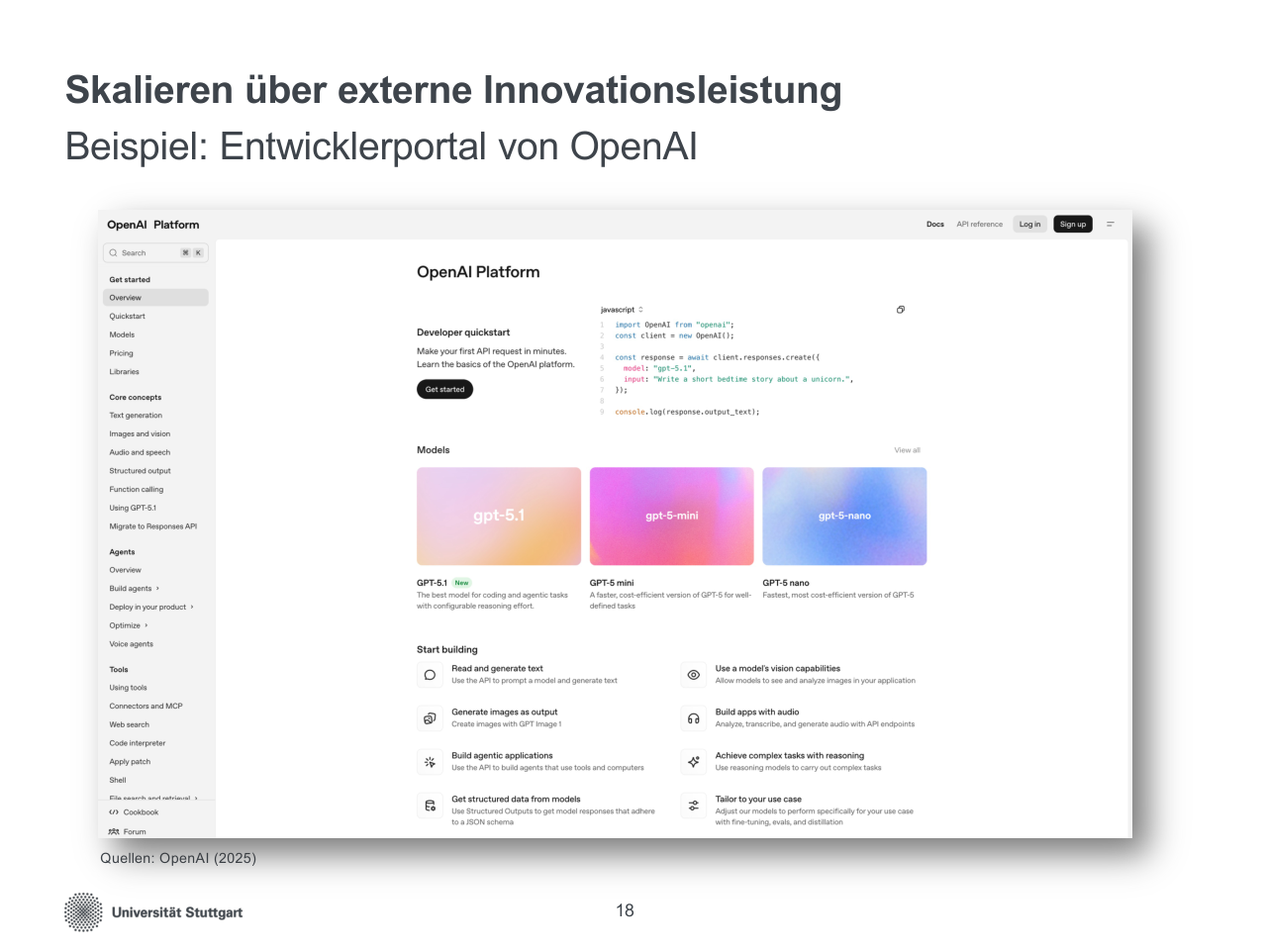
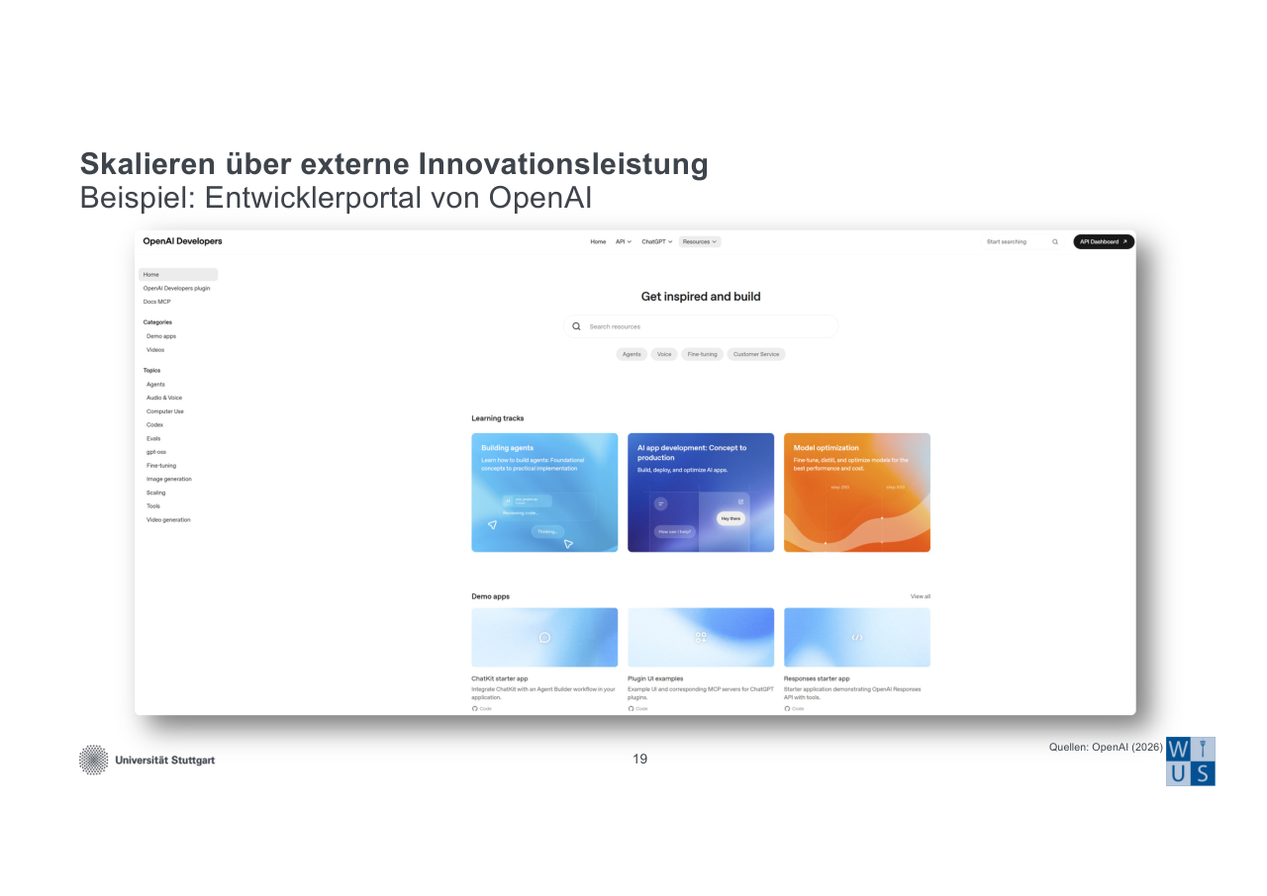
feat(mitun): refresh L06 Skalierung to the 2026/27 deck
Re-render slide images from the new deck, replace the PwC 2019 motivation slide with Bitkom 2025 and the EU Double Valley of Death, drop the Mercedes and Alexa portals, add Spotify Technology.

diff --git a/content/notes/lectures/mitun/06-skalierung.md b/content/notes/lectures/mitun/06-skalierung.md
@@ -13,21 +13,18 @@ date: 2026-10-31
 
 [[/notes/lectures/mitun/index|Zurück zum MITUN-Index]] | [[/notes/lectures/mitun/05-business-plan-und-funding|Zurück: (y-05) Business Plan und Funding]] | [[/notes/lectures/mitun/07-vermarktung|Weiter: (y-07) Vermarktung]]
 
-> [!note] Foliengrundlage
-> Diese Notiz basiert auf dem Foliensatz aus dem Wintersemester 2025/26. Sobald die Folien für 2026/27 vorliegen, wird sie daran angepasst.
-
 ## Mentales Modell
 
-- Wachstum heißt, dass ein Unternehmen größer wird. Skalierung heißt, dass es dabei Skaleneffekte nutzt, sodass der Umsatz schneller steigt als die Kosten. Software ist dafür gut geeignet, aber die Praxis zeigt, dass gerade Vertrieb, Produktentwicklung und Wachstum Startups Probleme machen.
+- Wachstum heißt, dass ein Unternehmen größer wird. Skalierung heißt, dass es dabei Skaleneffekte nutzt, sodass der Umsatz schneller steigt als die Kosten. Software ist dafür gut geeignet. In der Praxis nennen Startups trotzdem Vertrieb, Finanzierung sowie Skalierung und Wachstum als ihre größten Probleme (Bitkom 2025).
 - Fitzgerald u. a. (2017) unterscheiden drei Dimensionen der Skalierung: Produkt, Prozess und Organisation. Qualität, Kosten, Zeit und Softwarefähigkeiten wirken von außen.
 - Beim Produkt helfen eine lose gekoppelte Architektur (Microservices, wenn sie passen) und externe Innovationsleistung über Plattformen mit Boundary Resources wie APIs, SDKs und Entwicklerportalen.
-- Beim Prozess misst man Software Delivery Performance mit den vier DORA-Metriken. DevOps, Continuous Integration und Delivery und Golden Paths verbessern sie. Mehr Entwickler bringen nur dann mehr Leistung, wenn Architektur und Prozesse mitwachsen.
+- Beim Prozess misst man Software Delivery Performance mit den vier DORA-Metriken. DevOps, Continuous Integration und Delivery und Golden Paths verbessern sie. Spotify hat aus seinen Golden Paths sogar ein eigenes Produkt gemacht. Mehr Entwickler bringen nur dann mehr Leistung, wenn Architektur und Prozesse mitwachsen.
 - Bei der Organisation stoßen agile Teams an Grenzen (Brooks's Law, Conway's Law, Zwei-Pizza-Regel). Skalierte Rahmenwerke wie das Spotify-Modell, LeSS und SAFe ordnen viele Teams, und eine gestufte Support-Organisation fängt wachsende Kundenzahlen auf.
 - Tools für Planung, Code, Build, Test, Deployment und Betrieb unterstützen, ersetzen aber keine Prinzipien: "A fool with a tool is still a fool".
 
 ## 1. Inhalt und Lernziele
 
-![[pictures/mitun/06/Lecture06_Pg003_Inhalt_Und_Lernziele.png]]
+![[pictures/mitun/06/Lecture06_Pg005_Inhalt_Und_Lernziele.png]]
 
 <p class="image-caption">Inhalt der Vorlesung.</p>
 
@@ -41,21 +38,25 @@ Das Kapitel hat drei Teile: Allgemeines, die Dimensionen Produkt, Prozess und Or
 
 ### Motivation
 
-![[pictures/mitun/06/Lecture06_Pg006_Motivation.png]]
+![[pictures/mitun/06/Lecture06_Pg007_Motivation.png]]
 
 <p class="image-caption">Wachstumsphase und nachhaltige Skaleneffekte aus Kapitel 1.</p>
 
 Aus [[/notes/lectures/mitun/01-grundlagen|Kapitel 1]] ist die Wachstumsphase bekannt: Der Break-even ist erreicht, Produktion und Vertrieb werden ausgebaut, neue Märkte erschlossen, der Kapitalbedarf steigt. Mögliche Problembereiche sind Kundengewinnung, fehlendes Kapital, aktiver werdende Wettbewerber, die Organisation und die Qualität. Software hat dabei nachhaltige Skaleneffekte: Die First-Copy-Costs verteilen sich auf immer mehr Kopien (Degressionseffekt), und ab einer kritischen Masse steigen die Erlöse überproportional (Skalierungseffekt).
 
-![[pictures/mitun/06/Lecture06_Pg007_Motivation.png]]
+![[pictures/mitun/06/Lecture06_Pg008_Motivation.png]]
 
-<p class="image-caption">Herausforderungen von Startups (PwC 2019) und Stimmen aus der Praxis.</p>
+<p class="image-caption">Herausforderungen von Startups (Bitkom 2025), das "Double Valley of Death" (Europäische Kommission 2025) und Elon Musk zur Serienproduktion (Twitter 2020).</p>
 
-Nach dem Deutschen Startup Monitor 2019 (PwC 2019) sind Vertrieb und Kundengewinnung (55,3%), Produktentwicklung (43,9%), Kapitalbeschaffung (37,9%) und Wachstum (36,3%) die größten aktuellen Herausforderungen der Startups. Elon Musk beschreibt dasselbe für Hardware: Prototypen seien einfach, die Serienproduktion sei 1000% bis 10.000% schwerer. Eine Schlagzeile fragt, ob GPT-5 die Grenzen des Wachstums zeigt.
+Bitkom (2025, S. 9) hat Startups nach ihren größten geschäftlichen Herausforderungen gefragt. Vorn liegen Vertrieb und Kundengewinnung (61 %), Finanzierung und Kapitalbeschaffung (52 %) sowie Skalierung und Wachstum (39 %). Fehlende Nachfrage (13 %) und Wettbewerbsdruck (11 %) spielen eine kleinere Rolle.
+
+Die Europäische Kommission (2025) beschreibt das "Startup Double Valley of Death". Auf dem Weg von Forschung über Prototyp, Produktentwicklung und Kommerzialisierung zur Marktreife gibt es zwei Finanzierungslücken: die Pre-Commercialization Gap zwischen Prototyp und Produktentwicklung und die Scaling Gap in der Kommerzialisierung. In der ersten springen Inkubatoren, Business Angels und Venture Capital ein, in der zweiten fehlt Geld, bis Banken, Kapitalmärkte und öffentliche wie private Beschaffung übernehmen. Das technologische Risiko sinkt dabei von links nach rechts.
+
+Elon Musk beschreibt dasselbe für Hardware: Prototypen seien einfach, die Serienproduktion sei 1000 % bis 10.000 % schwerer. "The machine that makes the machine is vastly harder than the machine itself."
 
 ### Wachstum, Skalierbarkeit und Skalierung
 
-![[pictures/mitun/06/Lecture06_Pg008_Wachstum_Skalierbarkeit_Und_Skalierung.png]]
+![[pictures/mitun/06/Lecture06_Pg009_Wachstum_Skalierbarkeit_Und_Skalierung.png]]
 
 <p class="image-caption">Definitionen von Wachstum, Skalierbarkeit und Skalierung.</p>
 
@@ -68,7 +69,7 @@ Nach dem Deutschen Startup Monitor 2019 (PwC 2019) sind Vertrieb und Kundengewin
 
 ### Determinanten der Skalierung von Geschäftsmodellen
 
-![[pictures/mitun/06/Lecture06_Pg009_Determinanten_Der_Skalierung_Von_Gesch_Ftsmodellen.png]]
+![[pictures/mitun/06/Lecture06_Pg010_Determinanten_Der_Skalierung_Von_Gesch_Ftsmodellen.png]]
 
 <p class="image-caption">Explorative model of business model scalability (nach Stampfl u. a. 2013).</p>
 
@@ -86,7 +87,7 @@ Ein skalierbares Geschäftsmodell führt zu Unternehmenswachstum über zusätzli
 
 ## 3. Dimensionen der Skalierung
 
-![[pictures/mitun/06/Lecture06_Pg011_Dimensionen_Der_Skalierung.png]]
+![[pictures/mitun/06/Lecture06_Pg012_Dimensionen_Der_Skalierung.png]]
 
 <p class="image-caption">Produkt, Prozess und Organisation als Dimensionen der Skalierung (Fitzgerald u. a. 2017).</p>
 
@@ -96,13 +97,13 @@ Fitzgerald u. a. (2017) stellen Produkt, Organisation und Prozess als drei Teile
 
 ### Microservice-Architekturen
 
-![[pictures/mitun/06/Lecture06_Pg013_Microservice_Architekturen.png]]
+![[pictures/mitun/06/Lecture06_Pg014_Microservice_Architekturen.png]]
 
 <p class="image-caption">Monolith und Microservices (Microservices.io 2020, Kwiecien 2019).</p>
 
 Eine Microservice-Architektur strukturiert eine Anwendung als Sammlung von Services, die lose gekoppelt, unabhängig deploybar, um Geschäftsfähigkeiten herum organisiert, im Besitz eines kleinen Teams und gut wart- und testbar sind. Sie erlaubt schnelle, häufige und zuverlässige Auslieferung großer, komplexer Anwendungen und die schrittweise Weiterentwicklung des Technologie-Stacks. Im Monolithen dagegen laufen Oberfläche, Geschäftslogik und Datenbank als eine Instanz. Die Service-Graphen von Amazon und Netflix zeigen, wie komplex solche Landschaften werden. Die Folie warnt vor Antipatterns.
 
-![[pictures/mitun/06/Lecture06_Pg014_Microservice_Architekturen.png]]
+![[pictures/mitun/06/Lecture06_Pg015_Microservice_Architekturen.png]]
 
 <p class="image-caption">Prime Video wechselt von Microservices zum Monolithen (Amazon 2023).</p>
 
@@ -110,7 +111,7 @@ Das Team von Prime Video baute 2023 seinen Dienst zur Überwachung der Audio- un
 
 ### Skalieren über externe Innovationsleistung
 
-![[pictures/mitun/06/Lecture06_Pg015_Skalieren_Ber_Externe_Innovationsleistung.png]]
+![[pictures/mitun/06/Lecture06_Pg016_Skalieren_Ber_Externe_Innovationsleistung.png]]
 
 <p class="image-caption">Verschiebung der treibenden Innovationsquellen (nach Hoch und Freking 2009).</p>
 
@@ -118,7 +119,7 @@ Mit steigenden kumulierten Investitionen in Innovation verschieben sich die trei
 
 ### Boundary Resources
 
-![[pictures/mitun/06/Lecture06_Pg016_Boundary_Resources.png]]
+![[pictures/mitun/06/Lecture06_Pg017_Boundary_Resources.png]]
 
 <p class="image-caption">Boundary Resources als Skalierungsinstrument (Ghazawneh und Henfridsson 2013, Mautsch 2015).</p>
 
@@ -126,19 +127,15 @@ Der Plattformanbieter entwickelt und stellt Boundary Resources bereit, Komplemen
 
 ### Entwicklerportale und öffentliche Roadmaps
 
-![[pictures/mitun/06/Lecture06_Pg017_Entwicklerportale_Und_Ffentliche_Roadmaps.png]]
-
-<p class="image-caption">Entwicklerportale von Mercedes-Benz und Amazon Alexa.</p>
-
 ![[pictures/mitun/06/Lecture06_Pg018_Entwicklerportale_Und_Ffentliche_Roadmaps.png]]
 
-<p class="image-caption">Entwicklerportal von OpenAI (2025).</p>
+<p class="image-caption">Entwicklerportal von OpenAI (2026).</p>
 
 ![[pictures/mitun/06/Lecture06_Pg019_Entwicklerportale_Und_Ffentliche_Roadmaps.png]]
 
-<p class="image-caption">Öffentliche Roadmap von GitHub (2023).</p>
+<p class="image-caption">Öffentliche Roadmap von GitHub (2026).</p>
 
-Beispiele für Boundary Resources: Das Mercedes-Benz-Entwicklerportal bietet APIs etwa zum Fahrzeugstatus mit Sandbox, "Bring your own car" und Business-Zugang. Das Alexa-Portal führt mit Quick-Start-Tutorials, Dokumentation und Code-Beispielen zum ersten Skill. Die OpenAI-Plattform hat einen Developer Quickstart, Modellübersichten und Anleitungen für Text, Bilder, Audio und Agenten. GitHub veröffentlicht seine Roadmap nach Quartalen gegliedert als öffentliches Board.
+Zwei Beispiele für Boundary Resources: Das Entwicklerportal von OpenAI bietet Learning Tracks (Building agents, AI app development vom Konzept bis zur Produktion, Model optimization) und Demo-Apps. GitHub veröffentlicht seine Roadmap nach Quartalen gegliedert als öffentliches Board, von Q1 2025 bis "Future".
 
 ## 5. Prozess
 
@@ -228,11 +225,28 @@ Das DevOps Evolution Model von SAFe zeigt vier Reifestufen. In Modell 1 folgen a
 
 Golden Paths sind ausgetretene Pfade, die etwa Prozesse, Tools oder Technologien für bestimmte Anwendungsfälle bereitstellen, idealerweise als Self-Service. Spotify nutzt sie, um die Fragmentierung seines Software-Ökosystems zu verringern (Spotify 2020). Das STACKIT Maturity Model (2024) beschreibt Reifestufen mit Kriterien je Stufe. Solche Produkt- und Prozessstandards machen Skalierung wiederholbar.
 
+### Vom internen Werkzeug zum Produkt: Spotify Technology
+
+![[pictures/mitun/06/Lecture06_Pg032_Vom_Internen_Werkzeug_Zum_Produkt.png]]
+
+<p class="image-caption">Wie aus Spotifys internem Entwicklerportal Backstage eine eigene Produktmarke wurde (Spotify Technology 2026; Spotify 2025; Music Business Worldwide 2026).</p>
+
+Spotify hat seine Golden Paths in vier Schritten vom internen Werkzeug zum Produkt gemacht:
+
+| Phase                 | Was passiert                                                                                                                                                          |
+| :-------------------- | :-------------------------------------------------------------------------------------------------------------------------------------------------------------------- |
+| intern                | Backstage bündelt die Golden Paths als internes Entwicklerportal, nach eigener Aussage heute für etwa 700 R&D-Squads                                                  |
+| 03/2020: Open Source  | Backstage wird frei verfügbar und an die CNCF übergeben, über 3.000 Unternehmen nutzen es (Stand 2025)                                                                |
+| ab 2023: kommerziell  | Confidence (Experimentierplattform, seit 2023), Portal (gemanagtes Backstage, seit 2024), Premium-Plugins und Support                                                 |
+| 10/2026: eigene Marke | "Spotify Technology" mit Confidence, Portal (Steuerung von KI-Agenten samt KI-Kosten), Xirp (Entwicklungsumgebung für Claude, Gemini und Codex) und Backstage-Plugins |
+
+Der Slogan lautet "Build like Spotify. Proven at Spotify. Now yours." Die Folie ordnet das als Skalierung über Economies of Scope ein: Dieselbe interne Plattform erzeugt einen zweiten Erlösstrom, nach dem bekannten Muster von Amazon Web Services. Die Kehrseite ist, dass aus internen Nutzern zahlende Kunden werden, die eigene Anforderungen an Roadmap, Support und Verfügbarkeit stellen.
+
 ## 6. Organisation
 
 ### Agile Prinzipien und Skalierung
 
-![[pictures/mitun/06/Lecture06_Pg032_Agile_Prinzipien_Und_Skalierung.png]]
+![[pictures/mitun/06/Lecture06_Pg033_Agile_Prinzipien_Und_Skalierung.png]]
 
 <p class="image-caption">Die zwölf Prinzipien des Agilen Manifests und Skalierungseffekte (Beck u. a. 2001).</p>
 
@@ -240,7 +254,7 @@ Die zwölf Prinzipien des Agilen Manifests stellen unter anderem frühe und kont
 
 ### Komplexitätsprobleme beim Skalieren agiler Setups
 
-![[pictures/mitun/06/Lecture06_Pg033_Komplexit_Tsprobleme_Beim_Skalieren_Agiler_Setups.png]]
+![[pictures/mitun/06/Lecture06_Pg034_Komplexit_Tsprobleme_Beim_Skalieren_Agiler_Setups.png]]
 
 <p class="image-caption">Brooks's Law, Conway's Law und die Pizza-Regel (Lighthouse 2020, Conway 1968).</p>
 
@@ -248,7 +262,7 @@ Nach Brooks's Law wächst die Zahl der Beziehungen in einem Team mit $n(n-1)/2$,
 
 ### Spotify-Modell
 
-![[pictures/mitun/06/Lecture06_Pg034_Spotify_Modell.png]]
+![[pictures/mitun/06/Lecture06_Pg035_Spotify_Modell.png]]
 
 <p class="image-caption">Rollen und Einheiten im Spotify-Modell (Bäcklander 2019, Schmiedinger 2020).</p>
 
@@ -263,7 +277,7 @@ Nach Brooks's Law wächst die Zahl der Beziehungen in einem Team mit $n(n-1)/2$,
 
 ### Large Scale Scrum (LeSS)
 
-![[pictures/mitun/06/Lecture06_Pg035_Large_Scale_Scrum_Less.png]]
+![[pictures/mitun/06/Lecture06_Pg036_Large_Scale_Scrum_Less.png]]
 
 <p class="image-caption">Das LeSS-Framework (LeSS 2020).</p>
 
@@ -271,13 +285,13 @@ LeSS überträgt Scrum auf mehrere Feature-Teams, die an einem gemeinsamen Produ
 
 ### Scaled Agile Framework (SAFe)
 
-![[pictures/mitun/06/Lecture06_Pg036_Scaled_Agile_Framework_Safe.png]]
+![[pictures/mitun/06/Lecture06_Pg037_Scaled_Agile_Framework_Safe.png]]
 
 <p class="image-caption">SAFe 6.0 (SAFe 2024).</p>
 
 SAFe organisiert agile Arbeit auf mehreren Ebenen. Auf Portfolioebene stehen Lean Portfolio Management, Portfoliostrategie und Portfolio Backlog mit Epics, die in Value Streams umgesetzt werden. Darunter arbeiten Agile Release Trains (ART) mit Product Management, System Architect und Release Train Engineer. Die agilen Teams liefern in Iterationen über eine Continuous Delivery Pipeline, synchronisiert durch PI Planning, System Demos und Inspect and Adapt, und releasen bei Bedarf. Fundament sind Lean-Agile Leadership sowie Mindset, Werte und Prinzipien.
 
-![[pictures/mitun/06/Lecture06_Pg037_Scaled_Agile_Framework_Safe.png]]
+![[pictures/mitun/06/Lecture06_Pg038_Scaled_Agile_Framework_Safe.png]]
 
 <p class="image-caption">Die zehn SAFe-Prinzipien (SAFe 2020).</p>
 
@@ -285,7 +299,7 @@ Die zehn Prinzipien: wirtschaftliche Sicht einnehmen, Systemdenken anwenden, Var
 
 ### Taxonomie skaliert-agiler Rahmenwerke
 
-![[pictures/mitun/06/Lecture06_Pg038_Taxonomie_Skaliert_Agiler_Rahmenwerke.png]]
+![[pictures/mitun/06/Lecture06_Pg039_Taxonomie_Skaliert_Agiler_Rahmenwerke.png]]
 
 <p class="image-caption">Taxonomie skaliert-agiler Rahmenwerke (nach Turhan u. a. 2024).</p>
 
@@ -300,11 +314,11 @@ Turhan u. a. (2024) ordnen skaliert-agile Rahmenwerke über sechs Dimensionen ei
 | Prozesse                     | Komplexität, Flexibilität, Transparenz                                        |
 | Kontinuierliche Verbesserung | Training, unterstützende Werkzeuge, Metriken, unterstützende Praktiken        |
 
-![[pictures/mitun/06/Lecture06_Pg039_Taxonomie_Skaliert_Agiler_Rahmenwerke.png]]
+![[pictures/mitun/06/Lecture06_Pg040_Taxonomie_Skaliert_Agiler_Rahmenwerke.png]]
 
 <p class="image-caption">Anwendung der Taxonomie auf SAFe.</p>
 
-![[pictures/mitun/06/Lecture06_Pg040_Taxonomie_Skaliert_Agiler_Rahmenwerke.png]]
+![[pictures/mitun/06/Lecture06_Pg041_Taxonomie_Skaliert_Agiler_Rahmenwerke.png]]
 
 <p class="image-caption">Anwendung der Taxonomie auf LeSS.</p>
 
@@ -312,7 +326,7 @@ SAFe hat eine hohe Marktakzeptanz, richtet sich an große Organisationen ohne Be
 
 ### Skalierbare Organisation des Supports
 
-![[pictures/mitun/06/Lecture06_Pg041_Skalierbare_Organisation_Des_Supports.png]]
+![[pictures/mitun/06/Lecture06_Pg042_Skalierbare_Organisation_Des_Supports.png]]
 
 <p class="image-caption">1st, 2nd und 3rd Level Support (Half 2020a, 2020b).</p>
 
@@ -326,7 +340,7 @@ SAFe hat eine hohe Marktakzeptanz, richtet sich an große Organisationen ohne Be
 
 ### Exemplarische DevOps-Toolchain
 
-![[pictures/mitun/06/Lecture06_Pg043_Exemplarische_Devops_Toolchain.png]]
+![[pictures/mitun/06/Lecture06_Pg044_Exemplarische_Devops_Toolchain.png]]
 
 <p class="image-caption">Exemplarische DevOps-Toolchain (Medium 2020).</p>
 
@@ -334,13 +348,13 @@ Für jede Phase der DevOps-Schleife gibt es Werkzeuge, etwa Jira und Confluence 
 
 ### Planung und Design
 
-![[pictures/mitun/06/Lecture06_Pg044_Planung_Und_Design.png]]
+![[pictures/mitun/06/Lecture06_Pg045_Planung_Und_Design.png]]
 
 <p class="image-caption">Jira als Issue Tracker und für das Requirements Management (Atlassian 2020).</p>
 
 Jira schafft Transparenz über Prozessschritte und Teams hinweg. Es erfasst Anforderungen und Issues (Ideen, Epics, User Stories), plant Sprints und Tasks, verfolgt sie nach, bietet Scrum- und Kanban-Boards, überwacht Aufwände und dient als Issue Tracker für Support-Systeme.
 
-![[pictures/mitun/06/Lecture06_Pg045_Planung_Und_Design.png]]
+![[pictures/mitun/06/Lecture06_Pg046_Planung_Und_Design.png]]
 
 <p class="image-caption">Design Systems mit Zeplin oder Figma.</p>
 
@@ -348,13 +362,13 @@ Design-Systeme wie Zeplin oder Figma "skalieren die Kreativität". Sie schaffen 
 
 ### Entwicklung und Versionsverwaltung
 
-![[pictures/mitun/06/Lecture06_Pg046_Entwicklung_Und_Versionsverwaltung.png]]
+![[pictures/mitun/06/Lecture06_Pg047_Entwicklung_Und_Versionsverwaltung.png]]
 
 <p class="image-caption">KI-gestützte Entwicklung mit GitHub Copilot.</p>
 
 GitHub Copilot unterstützt Entwickler mit einem KI-Chat direkt im Editor.
 
-![[pictures/mitun/06/Lecture06_Pg047_Entwicklung_Und_Versionsverwaltung.png]]
+![[pictures/mitun/06/Lecture06_Pg048_Entwicklung_Und_Versionsverwaltung.png]]
 
 <p class="image-caption">Git, GitHub Flow und Trunk-Based Development (GitHub 2020, Hammant u. a. 2020).</p>
 
@@ -362,23 +376,23 @@ Git verwaltet Versionen über Trunks, Branches, Merges und Tags. Im GitHub Flow 
 
 ### Build, Test und Deploy
 
-![[pictures/mitun/06/Lecture06_Pg048_Build_Test_Und_Deploy.png]]
+![[pictures/mitun/06/Lecture06_Pg049_Build_Test_Und_Deploy.png]]
 
 <p class="image-caption">Jenkins, Black Duck und Cypress.</p>
 
-![[pictures/mitun/06/Lecture06_Pg049_Build_Test_Und_Deploy.png]]
+![[pictures/mitun/06/Lecture06_Pg050_Build_Test_Und_Deploy.png]]
 
 <p class="image-caption">End-to-End-Tests mit Cypress.</p>
 
 Jenkins automatisiert CI/CD mit zahlreichen Plugins für die Pipeline. Black Duck analysiert die Software-Zusammensetzung, erkennt Open-Source-Komponenten, prüft Lizenzen und sucht Sicherheitslücken. Cypress ist ein Framework für automatisierte End-to-End-UI-Tests auf verschiedenen Endgeräten.
 
-![[pictures/mitun/06/Lecture06_Pg050_Build_Test_Und_Deploy.png]]
+![[pictures/mitun/06/Lecture06_Pg051_Build_Test_Und_Deploy.png]]
 
 <p class="image-caption">Container mit Docker, Kubernetes und Gardener.</p>
 
 Container teilen sich das Host-Betriebssystem über eine Container Runtime, virtuelle Maschinen bringen jeweils ein eigenes Gastbetriebssystem über einen Hypervisor mit. Beide bieten eine konsistente Laufzeitumgebung und Sandboxing, Container zusätzlich geringen Speicherbedarf und wenig Verwaltungsaufwand (Google 2020). Docker baut, verteilt und startet Container, Kubernetes (K8s) automatisiert Deployment, Skalierung und Verwaltung containerisierter Anwendungen, Gardener verwaltet Kubernetes-Cluster.
 
-![[pictures/mitun/06/Lecture06_Pg051_Build_Test_Und_Deploy.png]]
+![[pictures/mitun/06/Lecture06_Pg052_Build_Test_Und_Deploy.png]]
 
 <p class="image-caption">Infrastructure as Code und das Spektrum der Werkzeuge (Nayak 2019).</p>
 
@@ -386,19 +400,19 @@ Infrastructure as Code verwaltet Infrastruktur (Netze, virtuelle Maschinen, Load
 
 ### All-in-one-Plattformen und Chatbots
 
-![[pictures/mitun/06/Lecture06_Pg053_All_In_One_Plattformen_Und_Chatbots.png]]
+![[pictures/mitun/06/Lecture06_Pg054_All_In_One_Plattformen_Und_Chatbots.png]]
 
 <p class="image-caption">GitLab und Azure DevOps als All-in-one-Plattformen.</p>
 
 Der Trend geht zu All-in-one-DevOps-Plattformen wie GitLab oder Azure DevOps (Boards, Pipelines, Repos, Test Plans, Artifacts, Marketplace). Sie decken unterschiedlich viel ab und sollten für den konkreten Anwendungsfall evaluiert werden. Daneben gibt es Produktmanagement- und Roadmapping-Werkzeuge wie Productboard.
 
-![[pictures/mitun/06/Lecture06_Pg054_All_In_One_Plattformen_Und_Chatbots.png]]
+![[pictures/mitun/06/Lecture06_Pg055_All_In_One_Plattformen_Und_Chatbots.png]]
 
 <p class="image-caption">Chatbots im Support und in der Teamkommunikation.</p>
 
 Chatbots sollen den Supportprozess effizienter machen, etwa Kundenservice-Chats, die Bestellungen stornieren, Statusabfragen per Messenger, Bots in Slack-Kanälen oder Plattformen wie SAP Conversational AI. Die Folie stellt das als offene Frage.
 
-![[pictures/mitun/06/Lecture06_Pg055_All_In_One_Plattformen_Und_Chatbots.png]]
+![[pictures/mitun/06/Lecture06_Pg056_All_In_One_Plattformen_Und_Chatbots.png]]
 
 <p class="image-caption">A fool with a tool is still a fool.</p>
 
@@ -409,7 +423,7 @@ Ohne passende Prinzipien, Prozesse und Kompetenzen skalieren Werkzeuge nichts.
 - Skalierung ist Wachstum unter Ausnutzung von Skaleneffekten. Ein skalierbares Geschäftsmodell steigert die Erlöse schneller als die Kosten.
 - Die Dimensionen sind Produkt, Prozess und Organisation (Fitzgerald u. a. 2017).
 - Produkt: lose gekoppelte Architekturen (Microservices nur, wo sie passen, siehe Prime Video) und externe Innovation über Boundary Resources wie APIs, SDKs, Entwicklerportale und öffentliche Roadmaps.
-- Prozess: Software Delivery Performance wird mit Lead Time, Deployment Frequency, MTTR und Change Fail Percentage gemessen. DevOps, CI/CD, transformationale Führung und Golden Paths verbessern sie, mehr Entwickler allein nicht.
+- Prozess: Software Delivery Performance wird mit Lead Time, Deployment Frequency, MTTR und Change Fail Percentage gemessen. DevOps, CI/CD, transformationale Führung und Golden Paths verbessern sie, mehr Entwickler allein nicht. Spotify verkauft seine Golden Paths inzwischen als Produkt (Economies of Scope).
 - Organisation: Brooks's und Conway's Law begrenzen die Teamgröße. Spotify-Modell, LeSS und SAFe skalieren agile Arbeit, eine Taxonomie hilft beim Vergleich, gestufter Support fängt mehr Kunden auf.
 - Tools unterstützen jede Phase der DevOps-Kette, ersetzen aber keine Prinzipien.
 
@@ -428,7 +442,7 @@ Ohne passende Prinzipien, Prozesse und Kompetenzen skalieren Werkzeuge nichts.
 3. Was sind Boundary Resources? Nennen Sie Beispiele.
 
 > [!success]- Antwort
-> Ressourcen, die ein Plattformanbieter bereitstellt, damit Komplementoren eigene Komplemente entwickeln können. Der Anbieter wechselt zwischen Absicherung und Schaffung. Technische Boundary Resources sind APIs, SDKs, modulare Architekturen, Cloud-Infrastruktur und Billing, soziale sind Dokumentation, Hackathons, Partnerprogramme und Roadmaps. Beispiele sind die Entwicklerportale von Mercedes-Benz, Amazon Alexa und OpenAI und die öffentliche Roadmap von GitHub.
+> Ressourcen, die ein Plattformanbieter bereitstellt, damit Komplementoren eigene Komplemente entwickeln können. Der Anbieter wechselt zwischen Absicherung und Schaffung. Technische Boundary Resources sind APIs, SDKs, modulare Architekturen, Cloud-Infrastruktur und Billing, soziale sind Dokumentation, Hackathons, Partnerprogramme und Roadmaps. Beispiele sind das Entwicklerportal von OpenAI und die öffentliche Roadmap von GitHub.
 
 4. Mit welchen Metriken misst man Software Delivery Performance?
 
@@ -454,6 +468,11 @@ Ohne passende Prinzipien, Prozesse und Kompetenzen skalieren Werkzeuge nichts.
 
 > [!success]- Antwort
 > LeSS skaliert Scrum schlank: mehrere Feature-Teams mit einem Product Owner, einem Backlog und gemeinsamen Events. SAFe ist umfassender, mit Portfolio-Ebene, Agile Release Trains, PI Planning und eigenen Rollen wie dem Release Train Engineer. Es hat hohe Marktakzeptanz und eignet sich für sehr große Organisationen, ist aber komplex und wenig flexibel.
+
+9. Wie hat Spotify seine Golden Paths zu einem Produkt gemacht, und welche Art der Skalierung ist das?
+
+> [!success]- Antwort
+> Backstage bündelte die Golden Paths zunächst als internes Entwicklerportal. 2020 wurde es Open Source und an die CNCF übergeben, ab 2023 kamen kommerzielle Angebote (Confidence, gemanagtes Portal, Premium-Plugins und Support), und seit 10/2026 laufen sie unter der eigenen Marke "Spotify Technology". Das ist Skalierung über Economies of Scope: Dieselbe interne Plattform erzeugt einen zweiten Erlösstrom, wie bei Amazon Web Services. Der Preis: Interne Nutzer werden zu zahlenden Kunden mit eigenen Anforderungen an Roadmap, Support und Verfügbarkeit.
 
 ---
 

diff --git a/content/notes/lectures/mitun/index.md b/content/notes/lectures/mitun/index.md
@@ -35,7 +35,7 @@ date: 2026-10-20
    Aufbau und Adressaten eines Business Plans, Executive Summary am Beispiel Probelane, Isenbergs Entrepreneurship-Ökosystem und die Ökosystemtypen nach Hess u. a., Schwachstellen des deutschen Startup-Ökosystems, Rechtsformen im Vergleich, Finanzplanung, No-, Low- und Big-Budget-Modell, Business Angels, VC und strategische Investoren, Finanzierungsphasen mit Volumina und Ablauf, Rule of 40 und ihre Grenze, Airbnb vom Seed bis zum IPO, Risikomanagement-Kreislauf, die Risiken im Börsenprospekt von Anthropic und SWOT-Analyse.
 
 - [[/notes/lectures/mitun/06-skalierung|(y-06) Skalierung]]  
-   Wachstum, Skalierbarkeit und Skalierung, Determinanten skalierbarer Geschäftsmodelle, die Dimensionen Produkt, Prozess und Organisation, Microservices und Prime Video, Boundary Resources und Entwicklerportale, DORA-Metriken, DevOps Evolution Model, Golden Paths, Brooks's und Conway's Law, Spotify-Modell, LeSS, SAFe, gestufter Support und die DevOps-Toolchain (Folien 2025/26).
+   Wachstum, Skalierbarkeit und Skalierung, Determinanten skalierbarer Geschäftsmodelle, die Dimensionen Produkt, Prozess und Organisation, Microservices und Prime Video, Boundary Resources und Entwicklerportale, DORA-Metriken, DevOps Evolution Model, Golden Paths und Spotify Technology, Brooks's und Conway's Law, Spotify-Modell, LeSS, SAFe, gestufter Support und die DevOps-Toolchain.
 
 - [[/notes/lectures/mitun/07-vermarktung|(y-07) Vermarktung]]  
    Die vier Ebenen der Marketingkonzeption mit Ansoff-Matrix und Segmentierung, Software als Konsum-, Vertrauens- oder Investitionsgut, der erweiterte Marketing-Mix, Feature Fatigue und Pareto-Fokussierung, virales Marketing, Preisfindung per Triangulation und Cost-plus für Cloud-Produkte, Vertriebstrichter und B2B-SaaS-Vertrieb, Freemium und Free Trial (Folien 2025/26).

diff --git a/content/notes/lectures/mitun/ue-uebungsklausur-fotonix.md b/content/notes/lectures/mitun/ue-uebungsklausur-fotonix.md
@@ -193,7 +193,7 @@ Auswirkungen auf das Ökosystem: Es wirken indirekte Netzeffekte. Je mehr Kunden
 
 ### b) Vier Mittel für Skalierung über externe Innovationsleistung (2 Punkte)
 
-![[pictures/mitun/06/Lecture06_Pg016_Boundary_Resources.png]]
+![[pictures/mitun/06/Lecture06_Pg017_Boundary_Resources.png]]
 
 <p class="image-caption">Technische und soziale Boundary Resources (Ghazawneh und Henfridsson 2013, Mautsch 2015).</p>
 
